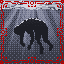
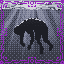
Drown Variations (#642)
* Fix Turn Start/End organization

* Remove old freeze logic

* Drown Variations Implemented

* Dark Tide Balancing

* Dark Tide only affects inLiquid units

* Dark Tide - Fix melee unit prediction

* icon: Fix border of Dark Tide
since it is a curse

---------

Changed region(s): [[0.0, 0.0, 1.0, 1.0]]

diff --git a/src/entity/Unit.ts b/src/entity/Unit.ts
@@ -49,6 +49,7 @@ import { freezeCardId } from '../cards/freeze';
 import { healSfx, oneOffHealAnimation } from '../effects/heal';
 import { soulShardOwnerModifierId } from '../modifierSoulShardOwner';
 import { getAllShardBearers } from '../cards/soul_shard';
+import { darkTideId } from '../cards/dark_tide';
 import { GORU_UNIT_ID } from './units/goru';
 
 const elCautionBox = document.querySelector('#caution-box') as HTMLElement;
@@ -1164,7 +1165,7 @@ export function canAct(unit: IUnit): boolean {
     return false;
   }
 
-  // TODO - Find cleaner method. Event args?
+  // Frozen and newly summoned units can't act
   if (unit.modifiers[freezeCardId] || unit.modifiers[summoningSicknessId]) {
     return false;
   }
@@ -1178,11 +1179,16 @@ export function canMove(unit: IUnit): boolean {
     // console.log("canMove: false - unit is not alive")
     return false;
   }
+  // Dark Tide is a curse that prevents movement if the unit is in liquid
+  if (unit.modifiers[darkTideId] && unit.inLiquid) {
+    return false;
+  }
   // Do not move if already moved
   if (unit.stamina <= 0) {
     // console.log("canMove: false - unit has already used all their stamina this turn")
     return false;
   }
+  // No reason to move if speed is <= 0
   if (unit.moveSpeed <= 0) {
     return false;
   }
@@ -1356,19 +1362,6 @@ export function inRange(unit: IUnit, target: Vec2): boolean {
 }
 
 export async function startTurnForUnits(units: IUnit[], underworld: Underworld, prediction: boolean) {
-  // Trigger start turn events
-  const turnStartPromises = [];
-  for (let unit of units) {
-    turnStartPromises.push(runTurnStartEvents(unit, underworld, prediction))
-  }
-  await raceTimeout(5000, 'Turn Start Events did not resolve', Promise.all(turnStartPromises));
-
-  // Regenerate stamina to max
-  for (let unit of units.filter(u => u.alive)) {
-    if (unit.stamina < unit.staminaMax) {
-      unit.stamina = unit.staminaMax;
-    }
-  }
   // Add mana to Player units
   for (let unit of units.filter(u => u.unitType == UnitType.PLAYER_CONTROLLED && u.alive)) {
     // Restore player to max mana at start of turn
@@ -1376,27 +1369,42 @@ export async function startTurnForUnits(units: IUnit[], underworld: Underworld, 
     // (due to other influences like mana potions, spells, perks, etc);
     unit.mana = Math.max(unit.manaMax, unit.mana);
   }
+
+  // Regenerate stamina to max
+  for (let unit of units.filter(u => u.alive)) {
+    if (unit.stamina < unit.staminaMax) {
+      unit.stamina = unit.staminaMax;
+    }
+  }
+
+  // Trigger start turn events
+  const turnStartPromises = [];
+  for (let unit of units) {
+    turnStartPromises.push(runTurnStartEvents(unit, underworld, prediction))
+  }
+  await raceTimeout(5000, 'Turn Start Events did not resolve', Promise.all(turnStartPromises));
 }
 
 export async function endTurnForUnits(units: IUnit[], underworld: Underworld, prediction: boolean) {
-  // Trigger end turn events
-  const turnEndPromises = [];
-  for (let unit of units) {
-    turnEndPromises.push(runTurnEndEvents(unit, underworld, prediction))
-  }
-  await raceTimeout(5000, 'Turn End Events did not resolve', Promise.all(turnEndPromises));
-
-  // At the end of their turn, deal damage if still in liquid
-  for (let unit of units.filter(u => u.inLiquid && u.alive)) {
-    doLiquidEffect(underworld, unit, false);
-    floatingText({ coords: unit, text: 'Liquid damage', style: { fill: 'red' } });
-  }
   // Add mana to AI units
   for (let unit of units.filter(u => u.unitType == UnitType.AI && u.alive)) {
     unit.mana += unit.manaPerTurn;
     // Cap manaPerTurn at manaMax
     unit.mana = Math.min(unit.mana, unit.manaMax);
   }
+
+  // At the end of their turn, deal damage if still in liquid
+  for (let unit of units.filter(u => u.inLiquid && u.alive)) {
+    doLiquidEffect(underworld, unit, false);
+    floatingText({ coords: unit, text: 'Liquid damage', style: { fill: 'red' } });
+  }
+
+  // Trigger end turn events
+  const turnEndPromises = [];
+  for (let unit of units) {
+    turnEndPromises.push(runTurnEndEvents(unit, underworld, prediction))
+  }
+  await raceTimeout(5000, 'Turn End Events did not resolve', Promise.all(turnEndPromises));
 }
 
 export async function runTurnStartEvents(unit: IUnit, underworld: Underworld, prediction: boolean) {

diff --git a/src/cards/dark_tide.ts b/src/cards/dark_tide.ts
@@ -1,0 +1,66 @@
+import { CardCategory } from '../types/commonTypes';
+import { playDefaultSpellSFX } from './cardUtils';
+import { refundLastSpell, Spell } from './index';
+import * as Unit from '../entity/Unit';
+import { CardRarity, probabilityMap } from '../types/commonTypes';
+import { getOrInitModifier } from './util';
+import Underworld from '../Underworld';
+import { drownCardId } from './drown';
+
+export const darkTideId = 'Dark Tide';
+const spell: Spell = {
+  card: {
+    id: darkTideId,
+    category: CardCategory.Curses,
+    manaCost: 30,
+    healthCost: 0,
+    expenseScaling: 1,
+    allowNonUnitTarget: true,
+    ignoreRange: true,
+    requires: [drownCardId],
+    probability: probabilityMap[CardRarity.SPECIAL],
+    thumbnail: 'spellIconDrown3.png',
+    sfx: 'drown',
+    description: ['spell_dark_tide'],
+    effect: async (state, card, quantity, underworld, prediction) => {
+      // .filter: target all living units that are submerged
+      const targets = (prediction ? underworld.unitsPrediction : underworld.units).filter(u => u.alive && u.inLiquid);
+      if (targets.length) {
+        if (!prediction) {
+          playDefaultSpellSFX(card, prediction);
+          // playSFXKey(`fallIntoLiquid-${underworld.lastLevelCreated?.biome}`);
+        }
+        for (let unit of targets) {
+          // Adds dark tide modifier, preventing the unit from moving.
+          Unit.addModifier(unit, darkTideId, underworld, prediction, quantity);
+        }
+      } else {
+        // No targets to cast on. Refund mana
+        refundLastSpell(state, prediction, 'No units are submerged\nMana Refunded')
+      }
+      return state;
+    },
+  },
+  modifiers: {
+    add,
+  },
+  events: {
+    onTurnEnd: async (unit: Unit.IUnit, prediction: boolean, underworld: Underworld) => {
+      // Decrement how many turns left the unit is affected by dark tide
+      const modifier = unit.modifiers[darkTideId];
+      if (modifier) {
+        modifier.quantity--;
+        if (modifier.quantity <= 0) {
+          Unit.removeModifier(unit, darkTideId, underworld);
+        }
+      }
+    },
+  },
+};
+
+function add(unit: Unit.IUnit, _underworld: Underworld, _prediction: boolean, quantity: number = 1) {
+  const modifier = getOrInitModifier(unit, darkTideId, { isCurse: true, quantity }, () => {
+    unit.onTurnEndEvents.push(darkTideId);
+  });
+}
+export default spell;

diff --git a/src/cards/blood_bath.ts b/src/cards/blood_bath.ts
@@ -1,0 +1,49 @@
+import { CardCategory } from '../types/commonTypes';
+import { playDefaultSpellSFX } from './cardUtils';
+import { addUnitTarget, refundLastSpell, Spell } from './index';
+import * as Unit from '../entity/Unit';
+import { CardRarity, probabilityMap } from '../types/commonTypes';
+import { drownCardId } from './drown';
+
+export const bloodBathId = 'Blood Bath';
+const damageDone = 40;
+const spell: Spell = {
+  card: {
+    id: bloodBathId,
+    category: CardCategory.Damage,
+    manaCost: 10,
+    healthCost: 0,
+    expenseScaling: 1,
+    supportQuantity: false,
+    allowNonUnitTarget: true,
+    ignoreRange: true,
+    requires: [drownCardId],
+    probability: probabilityMap[CardRarity.SPECIAL],
+    thumbnail: 'spellIconDrown2.png',
+    sfx: 'drown',
+    description: ['spell_blood_bath'],
+    effect: async (state, card, quantity, underworld, prediction) => {
+      // .filter: target all living units that are submerged
+      const targets = (prediction ? underworld.unitsPrediction : underworld.units).filter(u => u.alive && u.inLiquid);
+      if (targets.length) {
+        if (!prediction) {
+          playDefaultSpellSFX(card, prediction);
+          // playSFXKey(`fallIntoLiquid-${underworld.lastLevelCreated?.biome}`);
+        }
+        for (let unit of targets) {
+          Unit.takeDamage({
+            unit: unit,
+            amount: damageDone * quantity,
+            sourceUnit: state.casterUnit,
+            fromVec2: state.casterUnit,
+          }, underworld, prediction);
+        }
+      } else {
+        // No targets to cast on. Refund mana
+        refundLastSpell(state, prediction, 'No units are submerged\nMana Refunded')
+      }
+      return state;
+    },
+  },
+};
+export default spell;

diff --git a/src/cards/freeze.ts b/src/cards/freeze.ts
@@ -68,15 +68,6 @@ const spell: Spell = {
     // },
   },
   events: {
-    onTurnStart: async (unit: Unit.IUnit) => {
-      // Ensure that the unit cannot move when frozen
-      // (even when players' turns are ended they can still act so long
-      // as it is underworld.turn_phase === turn_phase.PlayerTurns, this is because all players act simultaneously
-      // during that phase, so setting stamina to 0
-      // prevents players from moving when they are frozen)
-      // and then returning true also ends their turn.
-      unit.stamina = 0;
-    },
     onTurnEnd: async (unit: Unit.IUnit, prediction: boolean, underworld: Underworld) => {
       // Decrement how many turns left the unit is frozen
       const modifier = unit.modifiers[freezeCardId];
@@ -93,12 +84,7 @@ const spell: Spell = {
 function add(unit: Unit.IUnit, underworld: Underworld, _prediction: boolean, quantity: number = 1) {
   getOrInitModifier(unit, freezeCardId, { isCurse: true, quantity }, () => {
     unit.radius = config.COLLISION_MESH_RADIUS;
-    // Immediately set stamina to 0 so they can't move
-    unit.stamina = 0;
     // Add event
-    if (!unit.onTurnStartEvents.includes(freezeCardId)) {
-      unit.onTurnStartEvents.push(freezeCardId);
-    }
     if (!unit.onTurnEndEvents.includes(freezeCardId)) {
       unit.onTurnEndEvents.push(freezeCardId);
     }

diff --git a/src/Underworld.ts b/src/Underworld.ts
@@ -3443,6 +3443,7 @@ ${CardUI.cardListToImages(player.stats.longestSpell)}
     }
   }
   // TODO - This should factor in fortify, debilitate, bloat explosions, etc.
+  // Any reason we dont fully simulate the enemy turn and store relevant results?
   getSmartTargets(units: Unit.IUnit[]): { [id: number]: { targets: Unit.IUnit[], canAttack: boolean } } {
     const cachedTargets: { [id: number]: { targets: Unit.IUnit[], canAttack: boolean } } = {};
     for (let subTypes of this.subTypesTurnOrder) {
@@ -3472,7 +3473,7 @@ ${CardUI.cardListToImages(player.stats.longestSpell)}
     }
     switch (u.unitSubType) {
       case UnitSubType.MELEE:
-        const maxPathDistance = u.attackRange + u.stamina;
+        const maxPathDistance = u.attackRange + (Unit.canMove(u) ? u.stamina : 0);
         // optimization: Only calculate full path if the unit is less than or equal to their remaining
         // stamina and attackRange because they certainly cannot attack the target if the target
         // is beyond their stamina radius and range

diff --git a/src/cards/index.ts b/src/cards/index.ts
@@ -70,6 +70,8 @@ import meteor from './meteor';
 import split from './split';
 import polymorph from './polymorph';
 import drown from './drown';
+import blood_bath from './blood_bath';
+import dark_tide from './dark_tide';
 import target_arrow from './target_arrow';
 import target_column from './target_column';
 import target_cone from './target_cone';
@@ -223,6 +225,8 @@ export function registerCards(overworld: Overworld) {
   registerSpell(bleed, overworld);
   config.IS_ANNIVERSARY_UPDATE_OUT && registerSpell(execute, overworld);
   registerSpell(drown, overworld);
+  registerSpell(blood_bath, overworld);
+  registerSpell(dark_tide, overworld);
   registerSpell(burst, overworld);
   registerSpell(bone_shrapnel, overworld);
   config.IS_ANNIVERSARY_UPDATE_OUT &&
